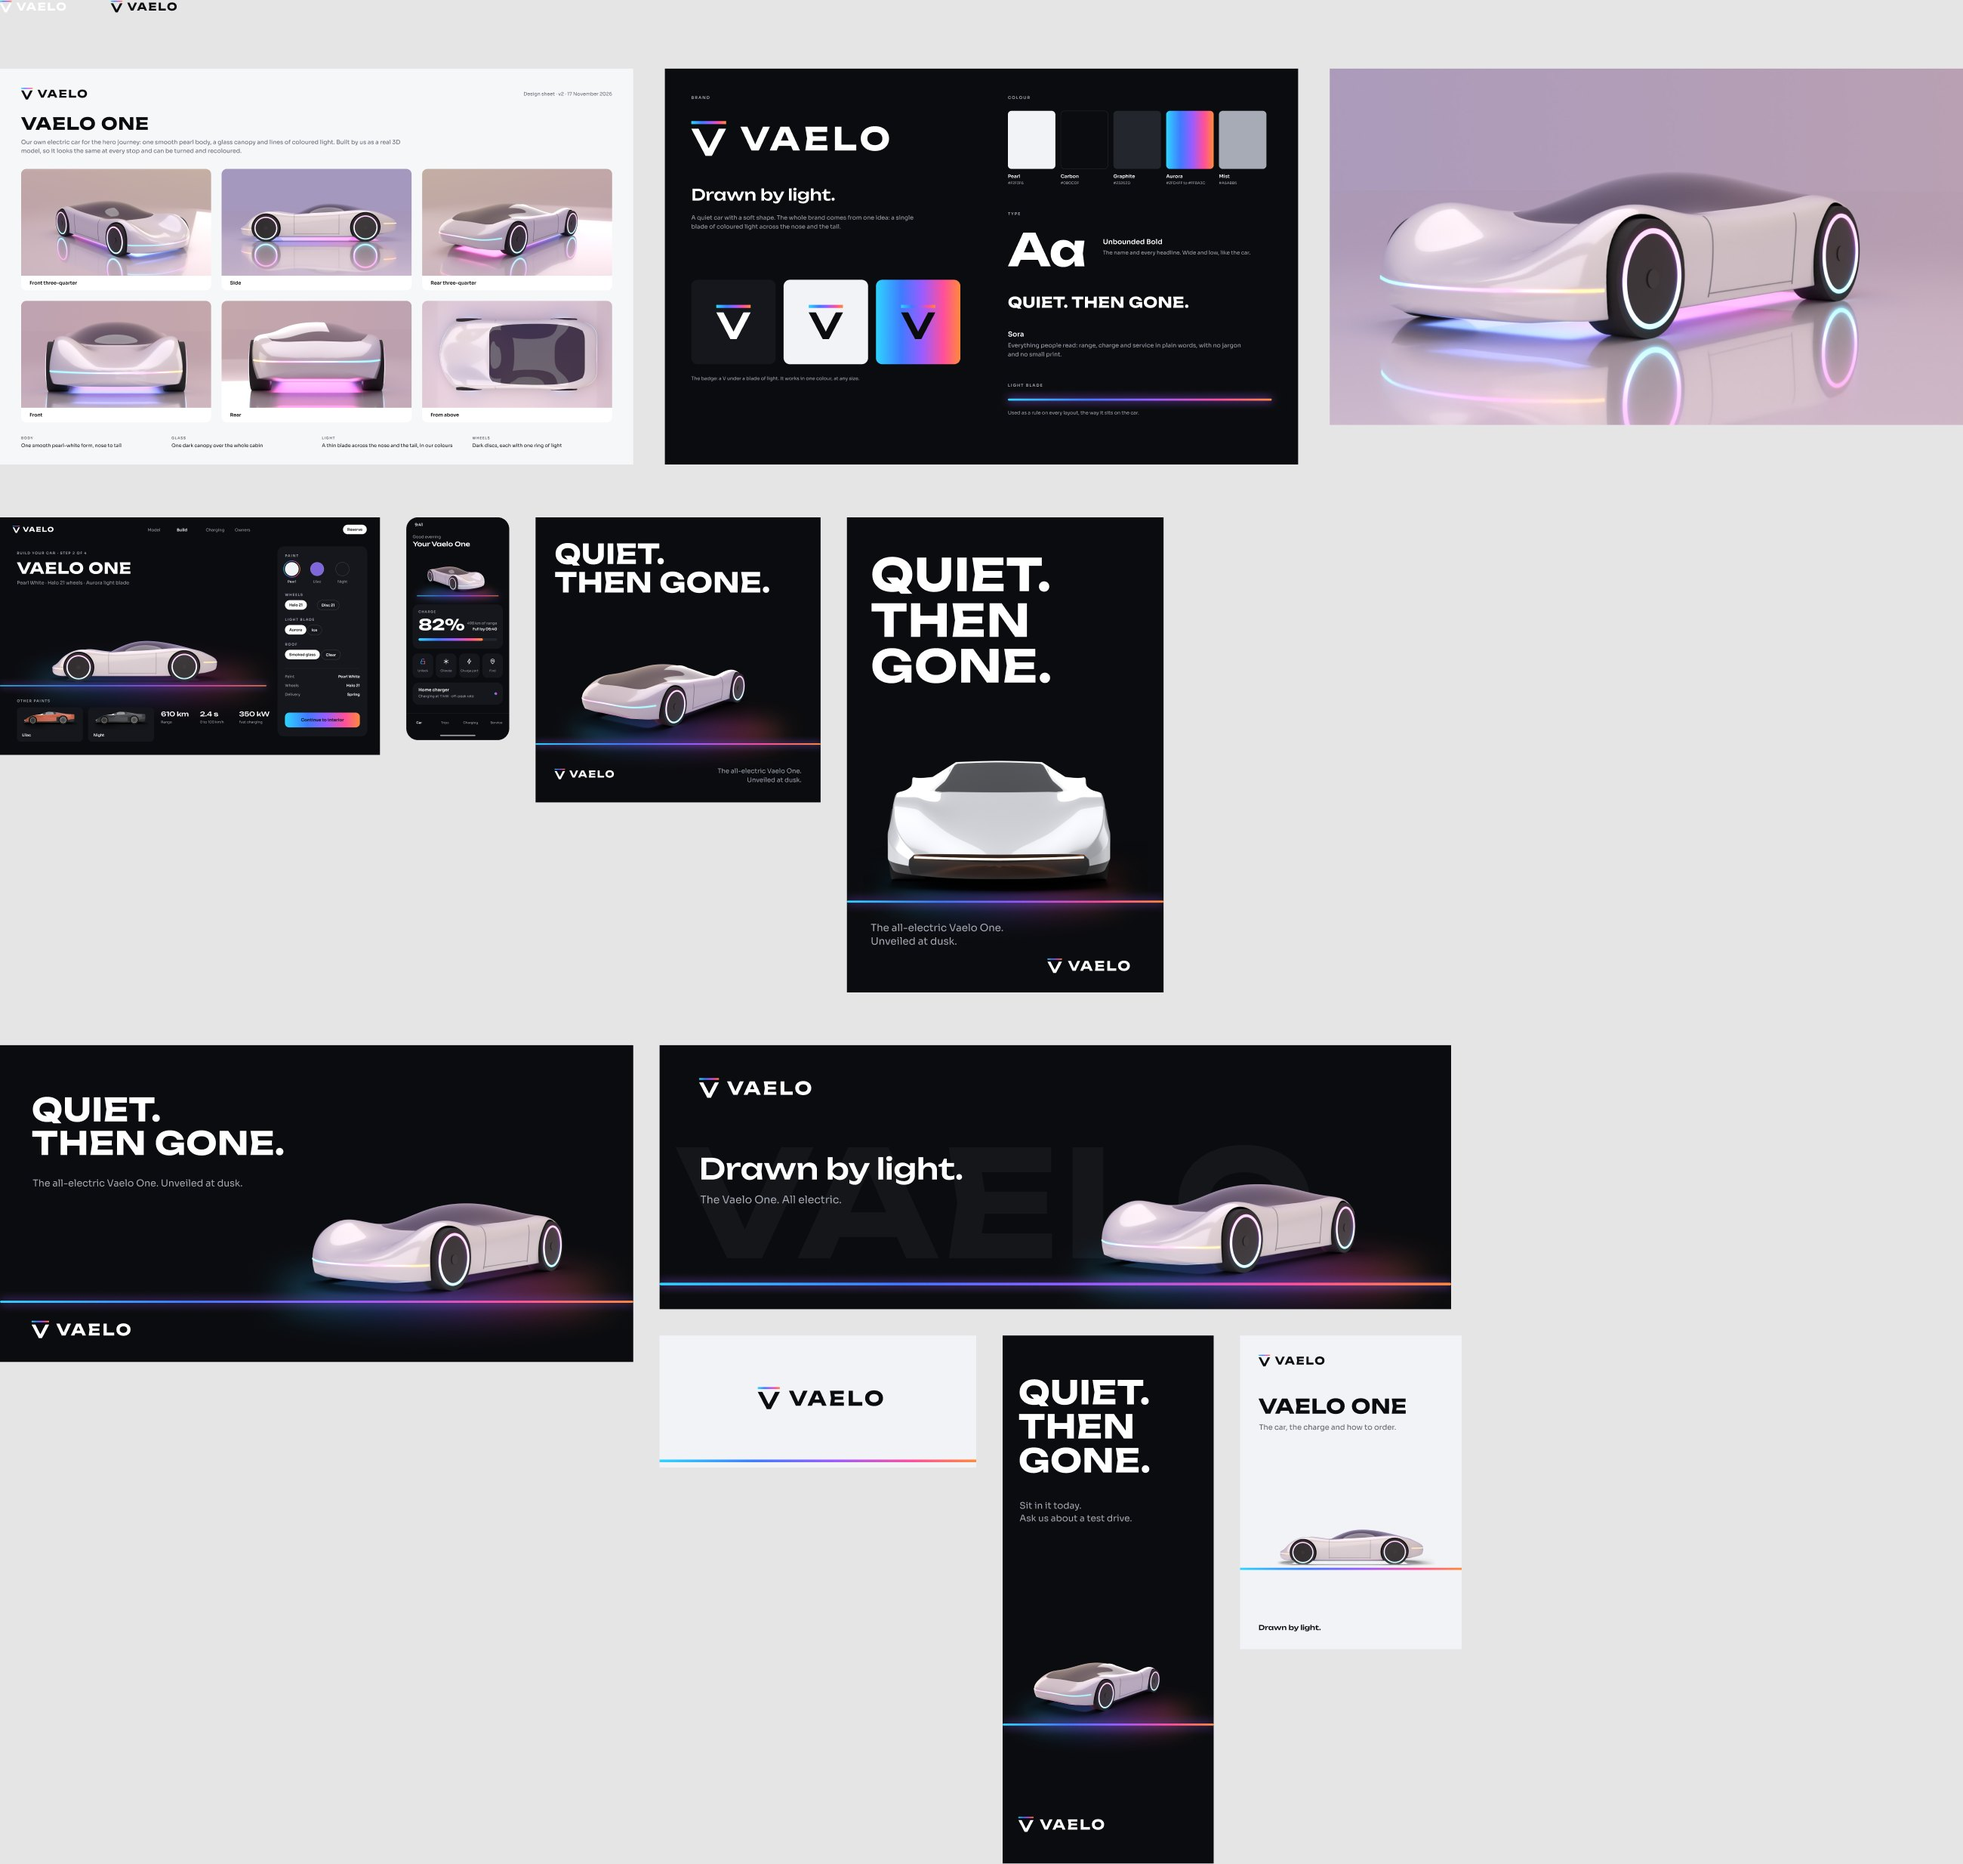
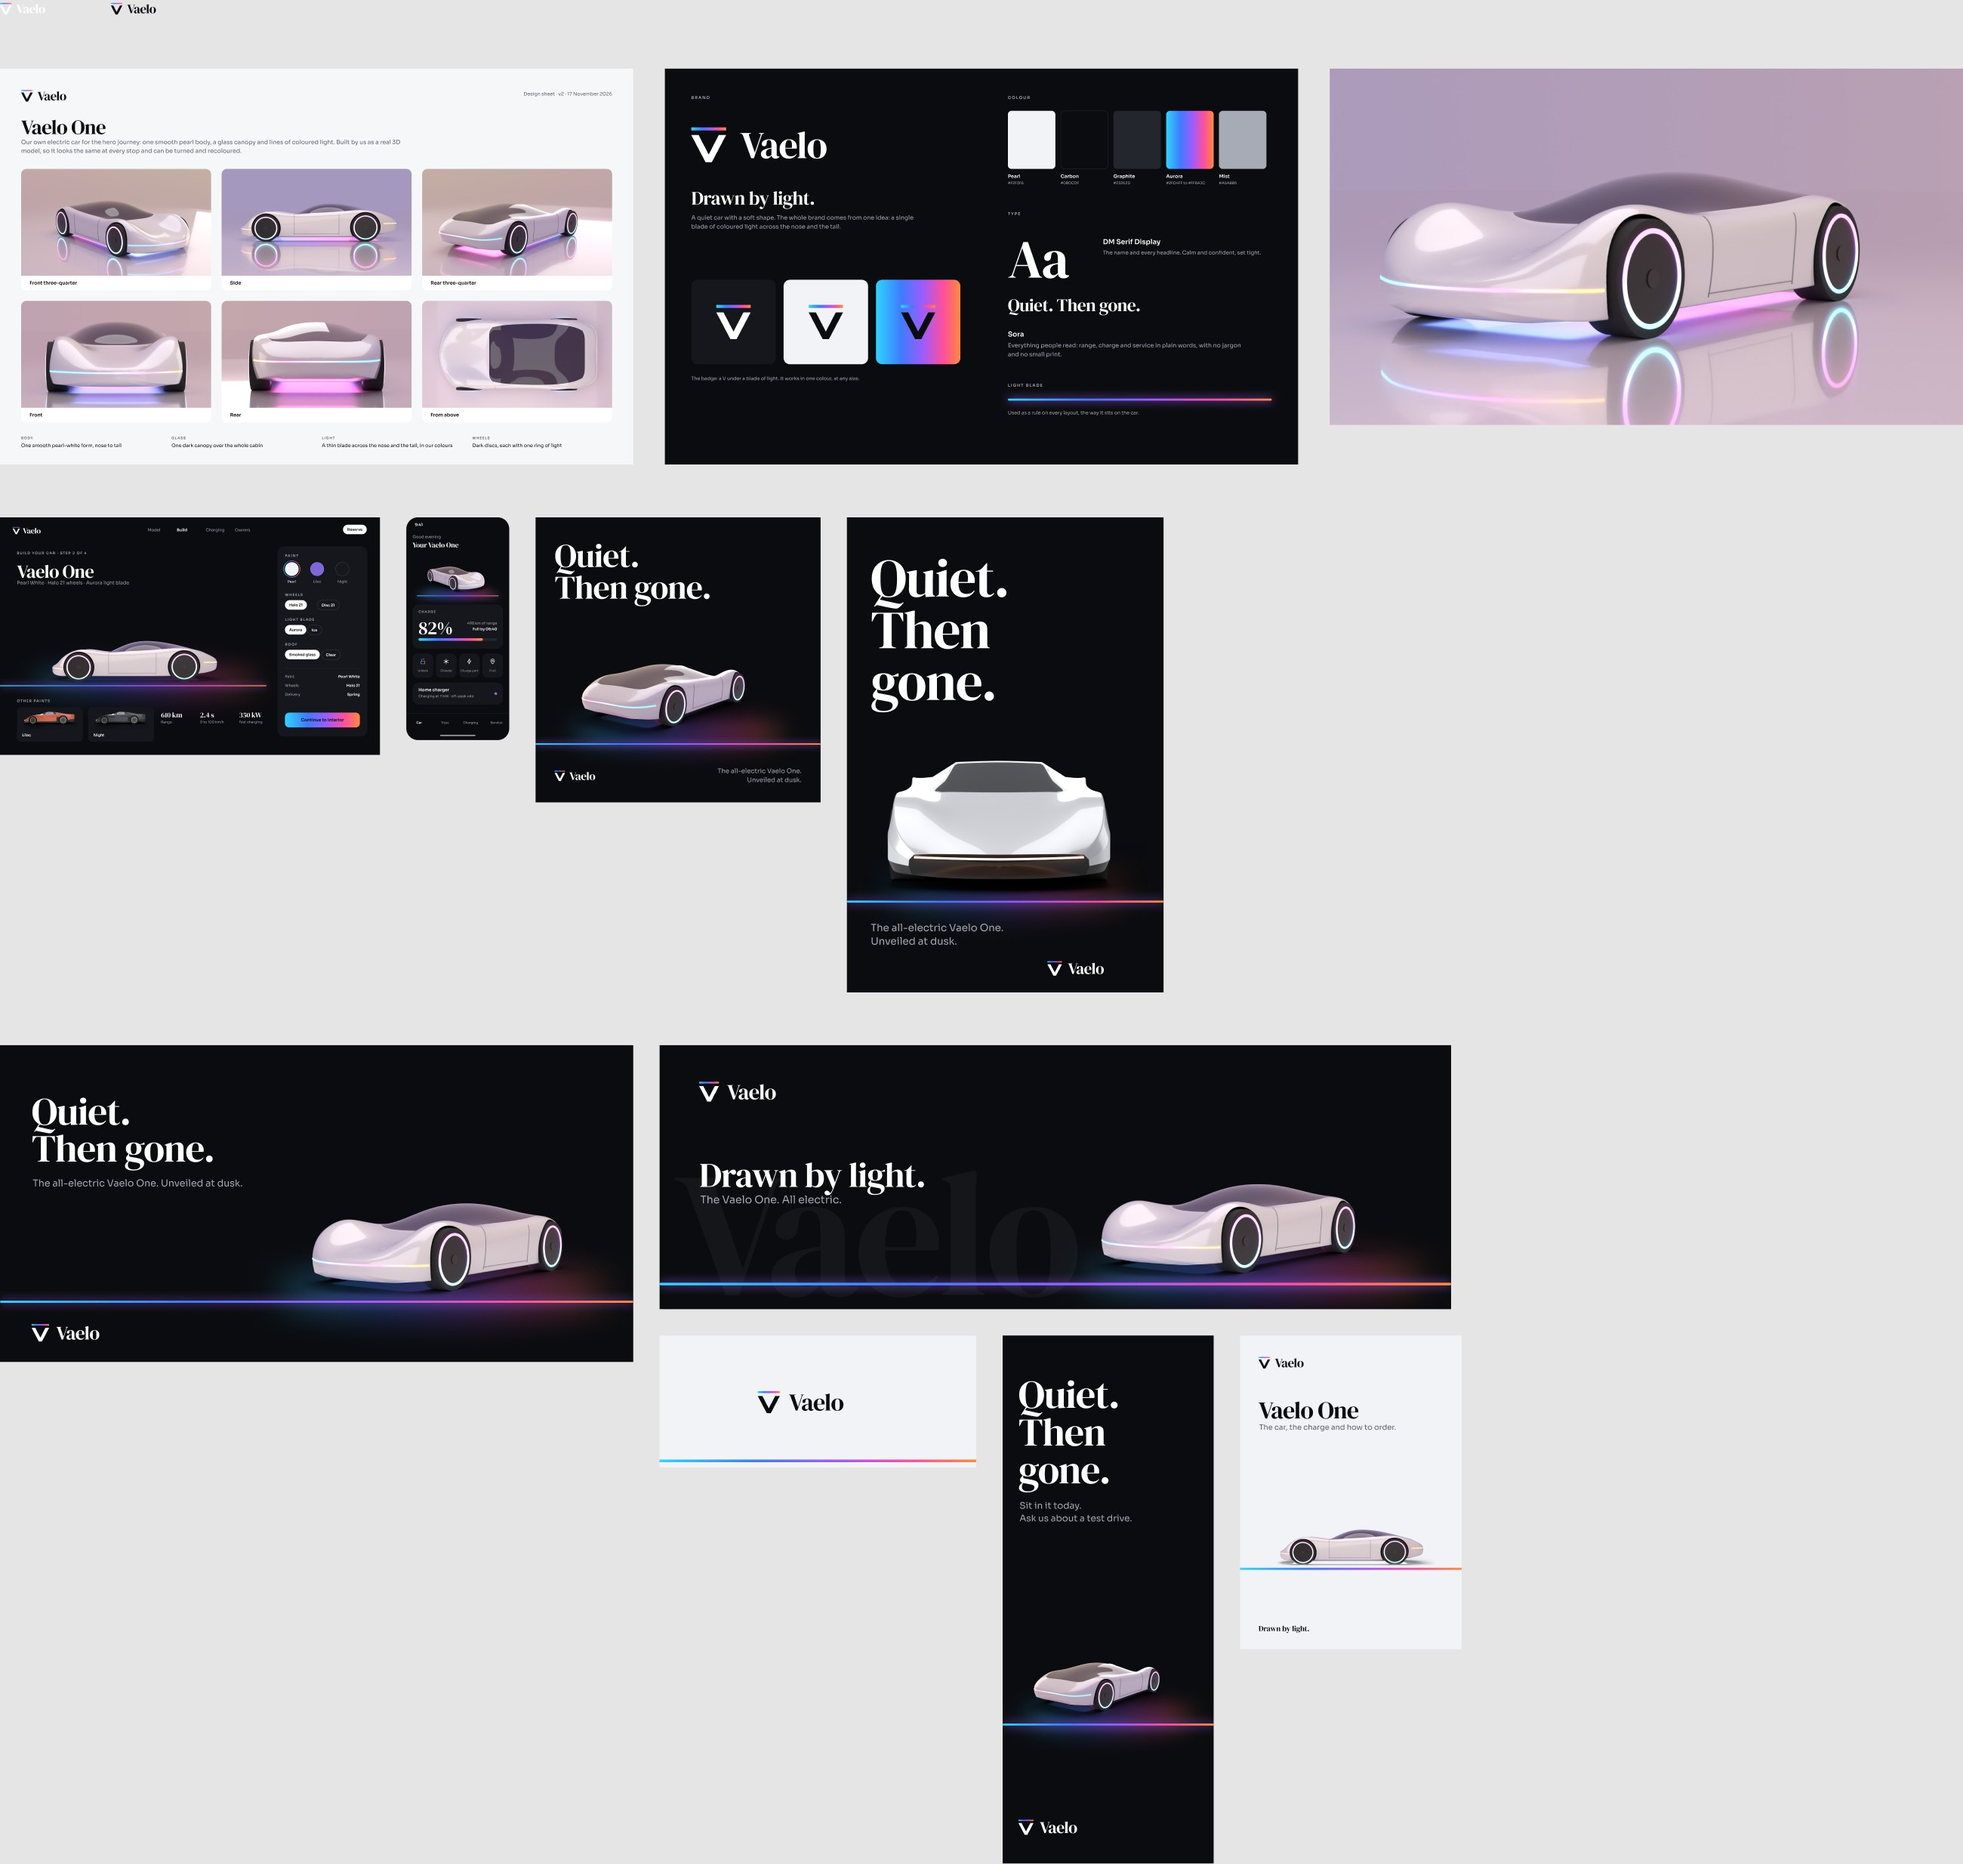
Hero journey: extra paint colours for the car, serif headlines in the Figma designs, checklist note
Claude-Session: https://claude.ai/code/session_011BdSE2fEeiEv9ZgoYmWAPn

diff --git a/LAUNCH-CHECKLIST.md b/LAUNCH-CHECKLIST.md
@@ -45,7 +45,7 @@ Tick items as they are done.
 - [ ] Owner's notes on that direction (17 Nov): the character looks ahead at the location while the page scrolls and turns to face the visitor when scrolling stops (working prototype in `design/hero/orb-proto`); no logo on the character: the character is the owner's artwork shown exactly as supplied (`design/hero/character`): front view when stopped, back view while travelling, the three-quarter view for the moment between, a light-style blink, and a rainbow light tail from its back. Wrapping the views round a ball and a redrawn 3D model were both tried and rejected by the owner (17 Nov): do not redraw the character. A smooth turn needs a short turn clip made from the artwork, which needs video credits; AI-made people are acceptable in the scenes; nothing of ours is shown along the road, only at the stops; no designs on roadside screens, each location shows a service as it appears in real life (`scene-brand-cyclist.png`, `scene-booth.png`).
 - [ ] Character built as a real 3D model and approved by the owner (17 Nov): `design/hero/character/model` (built by `build.py`), drawn live in `design/hero/orb-proto` (`page.html` is the source, `make.py` builds `index.html`). Still to do before it goes on the site: slim the model file (about 2.4 MB now) and load it after the first screen.
 - [ ] Scroll script and scene plan for the journey, waiting for the owner's yes: `design/hero/journey-script` (the launch day of our own electric supercar, through six outdoor stops; the owner chose the car on 17 Nov, a low wedge supercar of our own design, no real maker; travel legs blur with speed and the light tail uses our colours only). Order of work is in the plan: the journey in plain colours first (no credits), then the booth stop for real.
-- [ ] The car for the journey (17 Nov): 3D model built by us in `design/hero/car/model` (`build.py`) under the working name Vaelo (name not yet checked against trademarks). The owner first asked for a Lamborghini-type wedge, found the hand-built wedge did not look real, then shared a soft concept-car picture as the idea; the model is now one smooth pearl body with a glass canopy, wheels ringed with light and a light blade in our colours (`design/hero/car/hero.jpg`). The reference is another designer's concept, used for mood only, never copied. Car views and the launch brand designs (brand board, build-your-car page, owner app, billboard, shelter poster, social post, show stand panels) are in Figma: https://www.figma.com/design/U7fxv5ipzHrCeX7kmJf2bv. The image credits ran out on 17 Nov (they reset on 5 Dec), so the scene pictures wait for the reset or a top-up.
+- [ ] The car for the journey (17 Nov): 3D model built by us in `design/hero/car/model` (`build.py`) under the working name Vaelo (name not yet checked against trademarks). The owner first asked for a Lamborghini-type wedge, found the hand-built wedge did not look real, then shared a soft concept-car picture as the idea; the model is now one smooth pearl body with a glass canopy, wheels ringed with light and a light blade in our colours (`design/hero/car/hero.jpg`). The reference is another designer's concept, used for mood only, never copied. Later the same day the owner shared an advert with a green Porsche Taycan and a serif headline and asked for that font and car: the Figma headlines now use the closest serif we are free to use (DM Serif Display); the Porsche itself cannot be our brand's car, so the owner still has to choose between our own model in that mood, an original real-looking car once image credits are back, or a licensed 3D model. Car views and the launch brand designs (brand board, build-your-car page, owner app, billboard, shelter poster, social post, show stand panels) are in Figma: https://www.figma.com/design/U7fxv5ipzHrCeX7kmJf2bv. The image credits ran out on 17 Nov (they reset on 5 Dec), so the scene pictures wait for the reset or a top-up.
 - Home today shows the trial picture of the glass studio (day in the light theme, night in the dark theme).
 
 ## Already done (4 November 2026)
